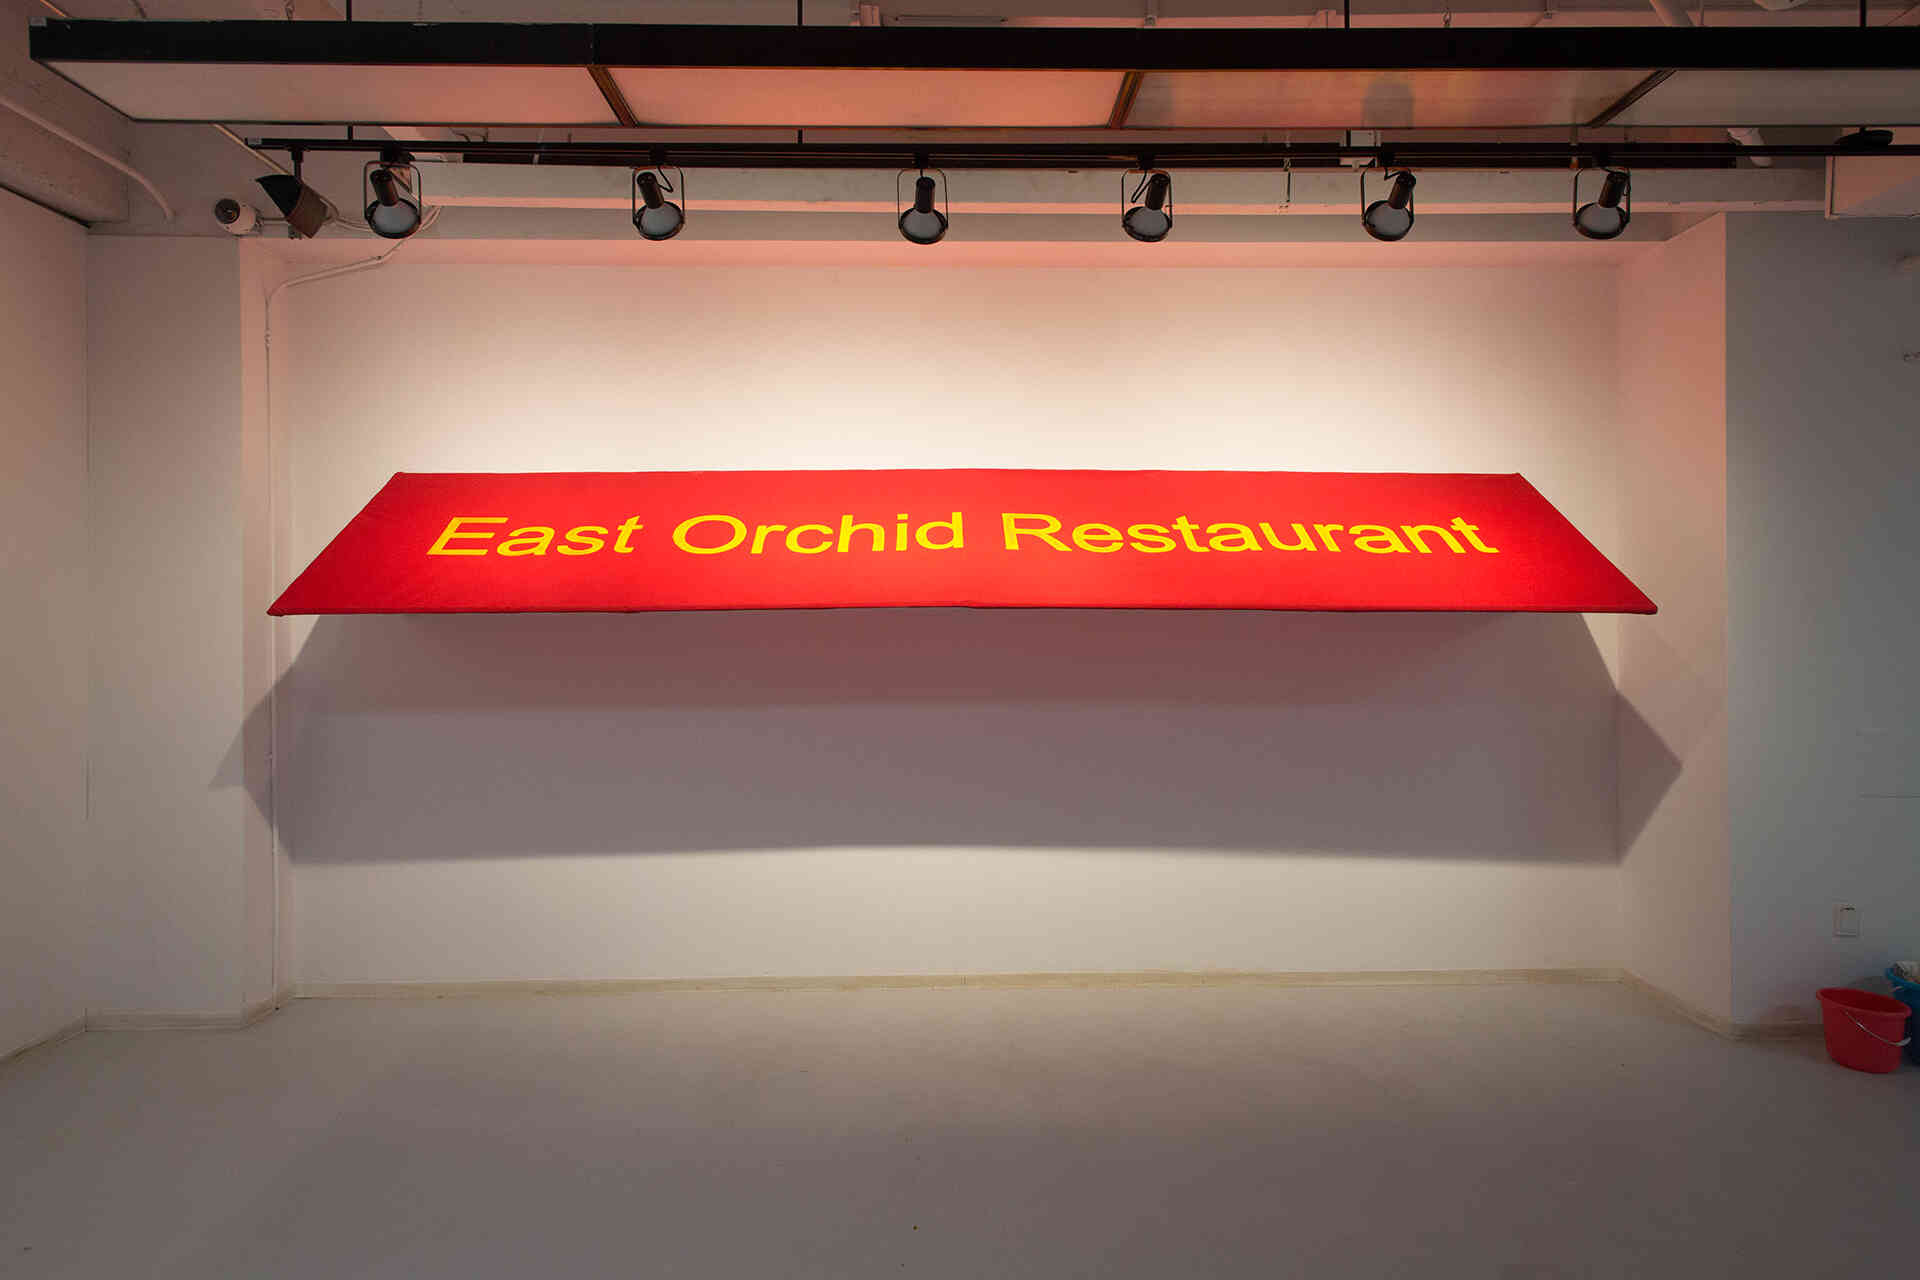
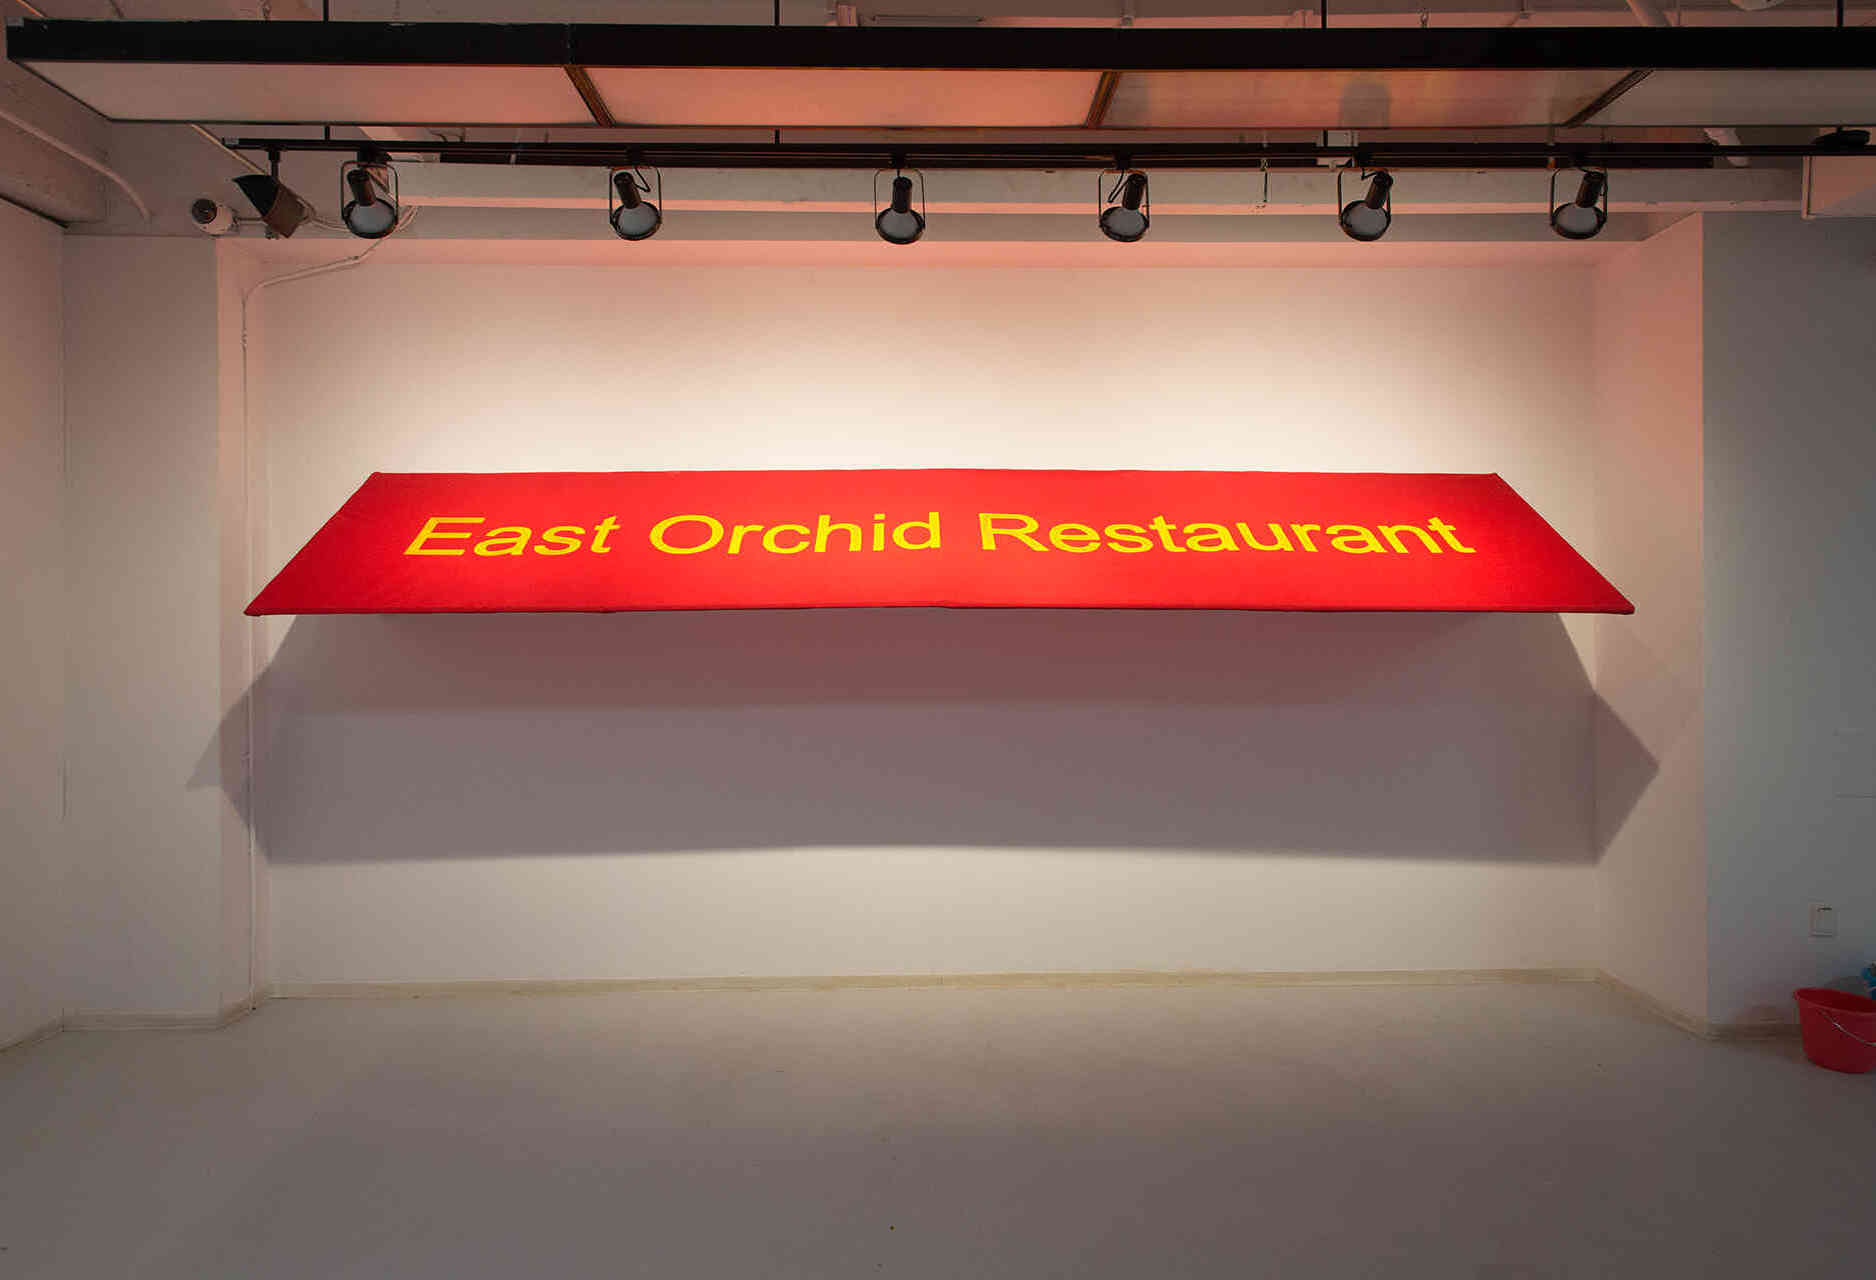
changed

diff --git a/src/madeInQueer.js b/src/madeInQueer.js
@@ -505,6 +505,10 @@ export const madeInQueer = {
         
         content:`<img src="${require("@/assets/YellowPerils/Snack/6snack.jpg")}" class="object-contain h-screen"/>`,
       },
+      {
+        
+        content:`<img src="${require("@/assets/YellowPerils/Snack/7snack.jpg")}" class="object-contain h-screen"/>`,
+      },
     ],
   },
   artist25:{
